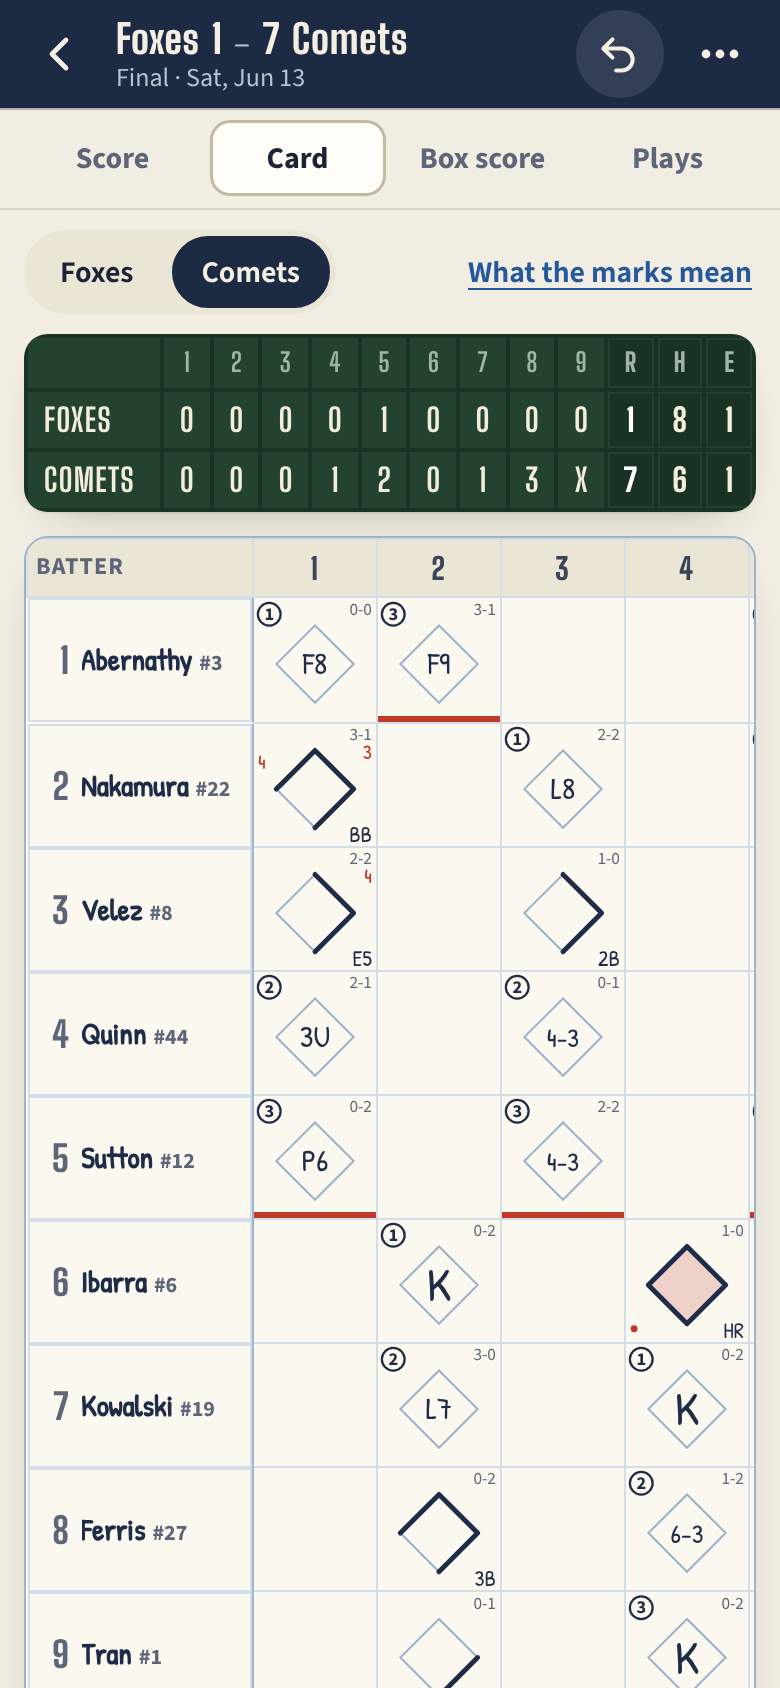
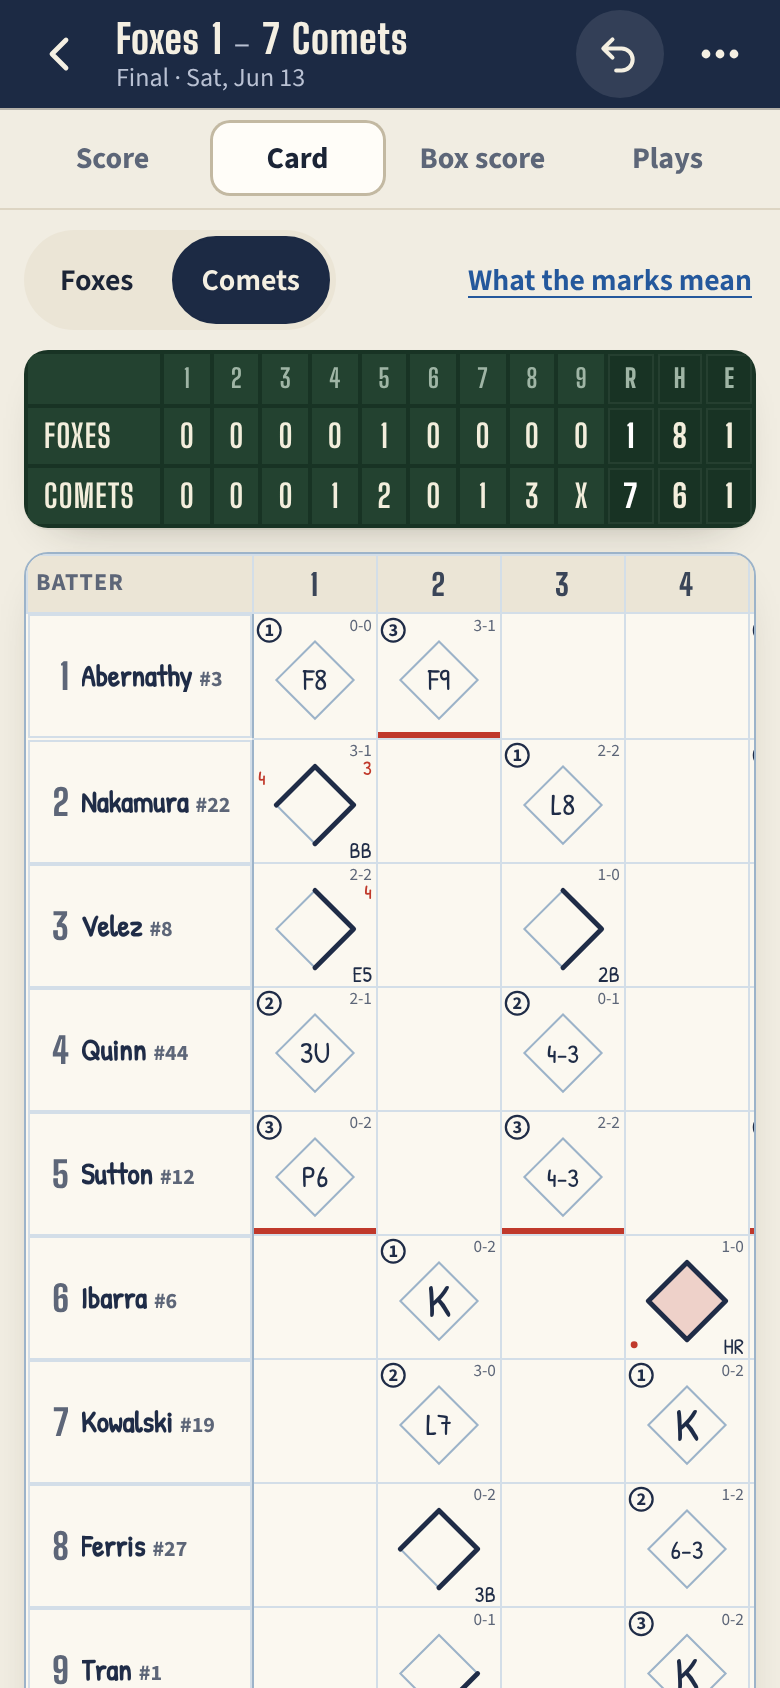
Chips, the card's team switch and the steppers are 44 pixels high
Answers 826654c6 (tap targets, the sheets' part). The chips in the
sheets (where each runner ended up, From the order, Back in, what kind
of substitution, Change what it was), the team switches (Whose card on
the Card tab, and in Lineups) and the new game's steppers and innings
were 34 to 42 pixels high, under the 44 a thumb needs. They're 44 now,
drawn as before otherwise; none of it costs the scoring screen any
height. The e2e measures each of them on a 390-wide phone; before, Whose
card was 36 high. The README pictures of the runners sheet and the card
are redrawn.

Claude-Session: https://claude.ai/code/session_0157za5jQT97q7xA8DmFNyQL

diff --git a/css/app.css b/css/app.css
@@ -192,8 +192,9 @@ h1[tabindex="-1"]:focus { outline: none; } /* a screen's heading, given the keyb
 .link-btn { border: 0; background: none; padding: 6px 2px; font-weight: 650; font-size: 15px; color: var(--hit); text-decoration: underline; text-underline-offset: 3px; }
 .row { display: flex; flex-wrap: wrap; gap: 10px; justify-content: flex-end; margin-top: 16px; }
 .chips { display: inline-flex; flex-wrap: wrap; gap: 6px; }
+/* Chips, a choice each, a thumb's height (44 pixels) to tap. */
 .chips button, .seg button, .chip {
-  min-height: 40px; padding: 6px 14px; border-radius: 999px;
+  min-height: 44px; padding: 6px 14px; border-radius: 999px;
   border: 1.5px solid var(--line-2); background: var(--card); font-weight: 650; font-size: 15px;
 }
 .chips button[aria-pressed="true"], .seg button[aria-pressed="true"] { background: var(--navy); border-color: var(--navy); color: var(--on-navy); }
@@ -201,7 +202,7 @@ h1[tabindex="-1"]:focus { outline: none; } /* a screen's heading, given the keyb
 .chips.wide { display: flex; }
 .chips button:disabled { opacity: .4; }
 .seg { display: inline-flex; gap: 4px; padding: 3px; border-radius: 999px; background: var(--soft); max-width: 100%; }
-.seg button { border-color: transparent; background: transparent; min-height: 36px; white-space: nowrap; overflow: hidden; text-overflow: ellipsis; }
+.seg button { border-color: transparent; background: transparent; min-height: 44px; white-space: nowrap; overflow: hidden; text-overflow: ellipsis; }
 .seg .batting { font-style: normal; color: var(--red); font-size: 11px; vertical-align: 2px; }
 /* The batting dot stays at 3:1 or better on the pressed button and the unpressed one, in both looks. */
 .seg [aria-pressed="true"] .batting { color: var(--lamp-o); }
@@ -264,12 +265,12 @@ fieldset { margin: 0; min-width: 0; }
 .pick-row span { color: var(--muted); font-size: 14px; margin-right: 2px; }
 .pick-row .chip[aria-pressed="true"] { background: var(--navy); border-color: var(--navy); color: var(--on-navy); }
 @media (prefers-color-scheme: dark) { .pick-row .chip[aria-pressed="true"] { background: var(--on-navy); border-color: var(--on-navy); color: var(--navy); } }
-.chip { min-height: 34px; padding: 4px 12px; }
+.chip { padding: 4px 12px; }
 .stepper { display: flex; align-items: center; gap: 8px; }
 .stepper span { flex: 1; color: var(--ink-2); }
 .stepper .st { display: grid; justify-items: start; }
 .stepper .link-btn { width: auto; height: auto; border: 0; border-radius: 0; background: none; font-size: 15px; line-height: 1.2; padding: 4px 0 2px; }
-.stepper button { width: 42px; height: 42px; border-radius: 50%; border: 1.5px solid var(--line-2); background: var(--card); font-size: 22px; line-height: 1; }
+.stepper button { width: 44px; height: 44px; border-radius: 50%; border: 1.5px solid var(--line-2); background: var(--card); font-size: 22px; line-height: 1; }
 .stepper b { min-width: 2ch; text-align: center; font: 800 26px/1 var(--board-font); }
 /* Lineup and pitcher, folded away: a chevron of the app's own that turns down when it's open. */
 details.lineup summary { cursor: pointer; font-weight: 700; padding: 6px 0; list-style: none; display: flex; align-items: center; gap: 8px; }
